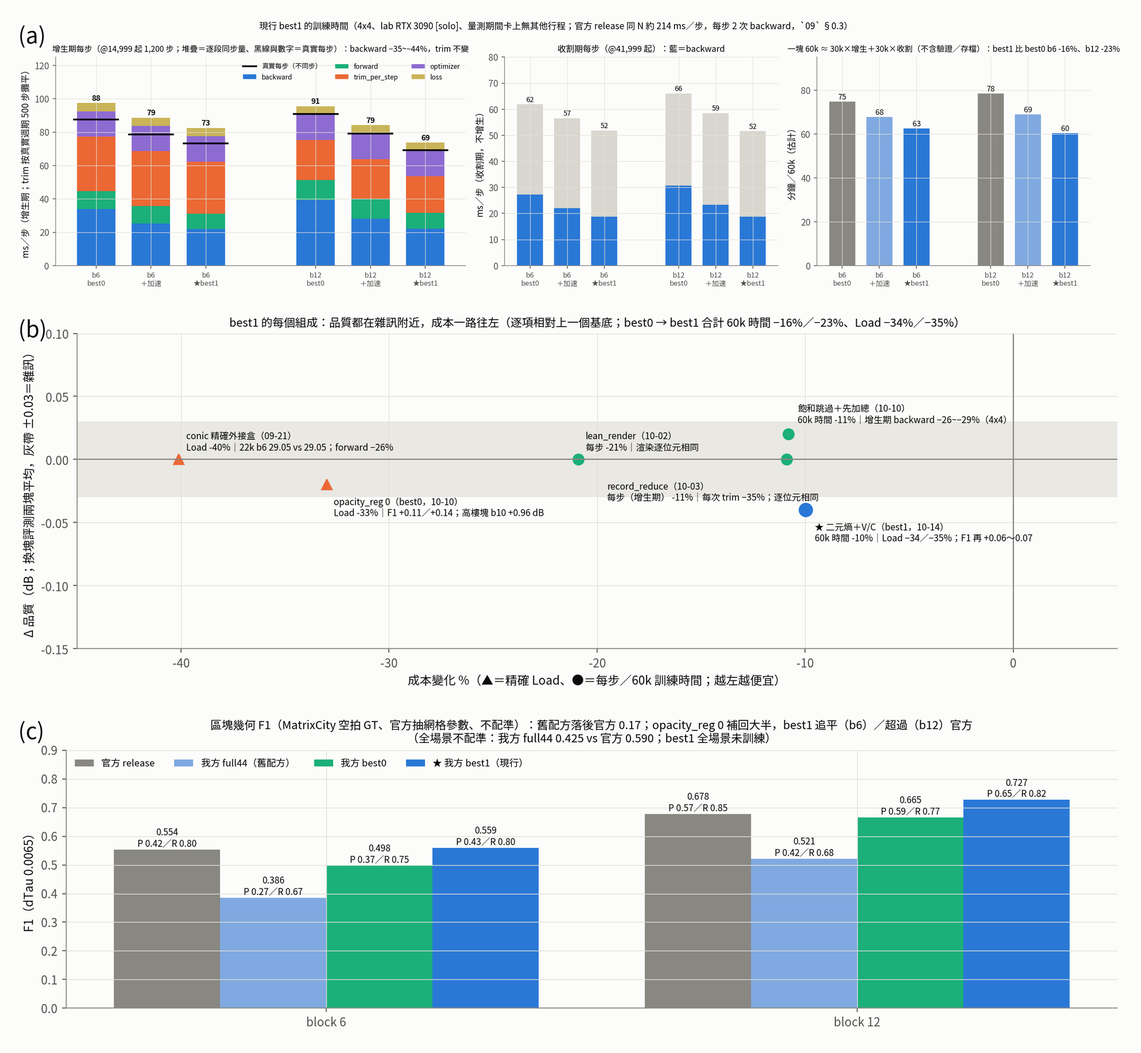
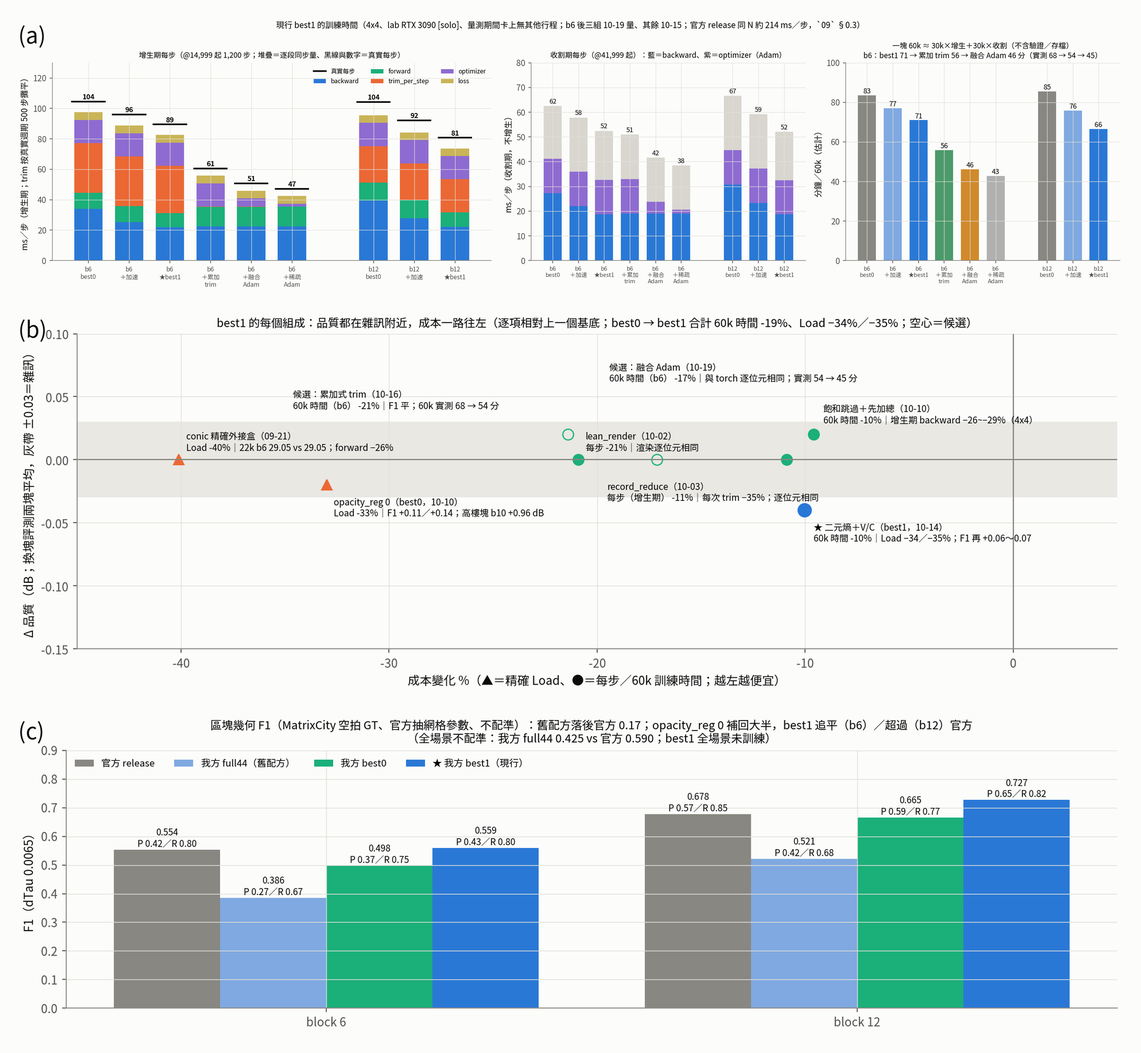
紀錄：融合／稀疏 Adam 結果＋時間換算修正（15 §2／§2.1／§4、研究總覽 §0／§2／§9、已關閉的線 C、方法論 §0 共用卡、手冊 §3／§4-5／§11-4、README；圖 15 重生）
- 融合 Adam：3090 上與 torch 逐位元相同；b6 60k 54 -> 45 分；換塊 +0.02、F1 0.561 vs 0.561 => 採用，全因子消融跑完後換成預設
- 稀疏 Adam：換塊 +0.17／+0.13 但 F1 −0.053／−0.063、60k 47／50 分 => 不採用（已關閉的線 C；重開：只對 SH 稀疏）
- 15 §2 用修正後的換算重寫（best1 b6 增生期 89.5 ms、60k 估計 71.0 分；實測 68.0）
- 10-20 lab 共用卡事故（容器外行程 22 GB，燒掉 10 格）與 runner 修正

Claude-Session: https://claude.ai/code/session_01ASvjmyPMC4F37W41o8s8Aq

diff --git a/tools/plot_analysis.py b/tools/plot_analysis.py
@@ -1076,45 +1076,57 @@ def _time_logs():
     sys.path.insert(0, os.path.join(ROOT, "tools"))
     from parse_best1_time import parse
     base = os.path.join(DST, "data", "best1_time")
-    return {6: parse(os.path.join(base, "best1_time_b6_1015_0655.log")), 12: parse(os.path.join(base, "best1_time_b12_1015_0602.log"))}
+    T = {6: parse(os.path.join(base, "best1_time_b6_1015_0655.log")), 12: parse(os.path.join(base, "best1_time_b12_1015_0602.log"))}
+    # ★ 10-19：累加式 trim／＋融合 Adam／＋稀疏 Adam（b6，同 ckpt 同工具；累加停止條件修正後的那次）
+    T[6].update(parse(os.path.join(base, "best1_time_b6_1019_1559.log")))
+    return T
 
 
 def n15_time(d):
-    """best1 的時間（lab 3090 [solo]、真實訓練迴圈，`task_best1_time.sh loop`）：best0 → ＋加速旗標 → best1，增生期逐段＋收割期，60k 估計。"""
+    """best1 的時間（lab 3090 [solo]、真實訓練迴圈，`task_best1_time.sh loop`）：best0 → ＋加速旗標 → best1 → ＋累加式 trim → ＋融合／稀疏 Adam。
+    ⚠ 10-19 修正換算：真實步時間本來就不含 trim => 每步 = 真實步 ＋ 第 12 段 ＋ trim 單次/500（舊版少算約 16 ms）。"""
     T = _time_logs()
-    arms = [("best0", "best0"), ("best0fast", "＋加速"), ("best1", "★best1")]
+    groups = [(6, [("best0", "best0"), ("best0fast", "＋加速"), ("best1", "★best1"), ("best1run", "＋累加\ntrim"),
+                   ("best1runfa", "＋融合\nAdam"), ("best1runsa", "＋稀疏\nAdam")]),
+              (12, [("best0", "best0"), ("best0fast", "＋加速"), ("best1", "★best1")])]
     segs = [("backward", C1), ("forward", C3), ("trim_per_step", C2), ("optimizer", C4), ("loss", "#c9b458")]
-    fig, axs = plt.subplots(1, 3, figsize=(17, 4.4), gridspec_kw={"width_ratios": [1.5, 1, 1]})
-    ax = axs[0]; xs, lbl = [], []
-    for bi, b in enumerate((6, 12)):
-        for ai, (a, nm) in enumerate(arms):
-            g = T[b][(a, "grow")]; x = bi * 4 + ai; xs.append(x); lbl.append(f"b{b}\n{nm}")
-            bot = 0
-            for k, c in segs:
-                v = g.get(k, 0.0); ax.bar(x, v, 0.7, bottom=bot, color=c, label=k if (bi == 0 and ai == 0) else None); bot += v
-            ax.plot([x - 0.4, x + 0.4], [g["step"]] * 2, color="k", lw=2, label="真實每步（不同步）" if (bi == 0 and ai == 0) else None)
-            ax.text(x, bot + 1.5, f"{g['step']:.0f}", ha="center", fontsize=8.5, fontweight="bold")
-    ax.set_xticks(xs); ax.set_xticklabels(lbl, fontsize=8); ax.set_ylabel("ms／步（增生期；trim 按真實週期 500 步攤平）")
-    ax.legend(fontsize=7.5, ncol=3, loc="upper right"); ax.set_ylim(0, 125)
-    ax.set_title("增生期每步（@14,999 起 1,200 步；堆疊＝逐段同步量、黑線與數字＝真實每步）：backward −35~−44%，trim 不變", fontsize=9)
+    cols = {"best0": MUTED, "best0fast": "#7fa9e0", "best1": C1, "best1run": "#4c9a6a", "best1runfa": "#d08a2c", "best1runsa": "#b0b0b0"}
+    pos = []
+    x = 0
+    for b, arms in groups:
+        for a, nm in arms:
+            pos.append((x, b, a, nm)); x += 1
+        x += 1
+    fig, axs = plt.subplots(1, 3, figsize=(19, 4.8), gridspec_kw={"width_ratios": [1.6, 1, 1]})
+    ax = axs[0]
+    for k, (x, b, a, nm) in enumerate(pos):
+        g = T[b][(a, "grow")]; bot = 0
+        for sk, c in segs:
+            v = g.get(sk, 0.0); ax.bar(x, v, 0.7, bottom=bot, color=c, label=sk if k == 0 else None); bot += v
+        ax.plot([x - 0.4, x + 0.4], [g["step"]] * 2, color="k", lw=2, label="真實每步" if k == 0 else None)
+        ax.text(x, max(bot, g["step"]) + 1.5, f"{g['step']:.0f}", ha="center", fontsize=8.5, fontweight="bold")
+    ax.set_xticks([p[0] for p in pos]); ax.set_xticklabels([f"b{p[1]}\n{p[3]}" for p in pos], fontsize=7.5)
+    ax.set_ylabel("ms／步（增生期；trim 按真實週期 500 步攤平）"); ax.legend(fontsize=7.5, ncol=3, loc="upper right"); ax.set_ylim(0, 130)
+    ax.set_title("增生期每步（@14,999 起 1,200 步；堆疊＝逐段同步量、黑線與數字＝真實每步）", fontsize=9)
     ax = axs[1]
-    for bi, b in enumerate((6, 12)):
-        for ai, (a, nm) in enumerate(arms):
-            h = T[b][(a, "harvest")]; x = bi * 4 + ai
-            ax.bar(x, h["backward"], 0.7, color=C1); ax.bar(x, h["step"] - h["backward"], 0.7, bottom=h["backward"], color="#d8d6cf")
-            ax.text(x, h["step"] + 1, f"{h['step']:.0f}", ha="center", fontsize=8)
-    ax.set_xticks(xs); ax.set_xticklabels(lbl, fontsize=8); ax.set_ylim(0, 80); ax.set_ylabel("ms／步（收割期，不增生）")
-    ax.set_title("收割期每步（@41,999 起）：藍＝backward", fontsize=9.5)
+    for x, b, a, nm in pos:
+        h = T[b][(a, "harvest")]
+        ax.bar(x, h["backward"], 0.7, color=C1); ax.bar(x, h.get("optimizer", 0), 0.7, bottom=h["backward"], color=C4)
+        ax.bar(x, h["step"] - h["backward"] - h.get("optimizer", 0), 0.7, bottom=h["backward"] + h.get("optimizer", 0), color="#d8d6cf")
+        ax.text(x, h["step"] + 1, f"{h['step']:.0f}", ha="center", fontsize=8)
+    ax.set_xticks([p[0] for p in pos]); ax.set_xticklabels([f"b{p[1]}\n{p[3]}" for p in pos], fontsize=7)
+    ax.set_ylim(0, 80); ax.set_ylabel("ms／步（收割期，不增生）")
+    ax.set_title("收割期每步（@41,999 起）：藍＝backward、紫＝optimizer（Adam）", fontsize=9)
     ax = axs[2]
-    for bi, b in enumerate((6, 12)):
-        for ai, (a, nm) in enumerate(arms):
-            g, h = T[b][(a, "grow")], T[b][(a, "harvest")]; m = 30000 * (g["step"] + h["step"]) / 1000 / 60; x = bi * 4 + ai
-            ax.bar(x, m, 0.7, color=[MUTED, "#7fa9e0", C1][ai]); ax.text(x, m + 1, f"{m:.0f}", ha="center", fontsize=8.5)
-    ax.set_xticks(xs); ax.set_xticklabels(lbl, fontsize=8); ax.set_ylabel("分鐘／60k（估計）"); ax.set_ylim(0, 95)
-    b6 = [30000 * (T[6][(a, 'grow')]['step'] + T[6][(a, 'harvest')]['step']) / 6e4 for a, _ in arms]
-    b12 = [30000 * (T[12][(a, 'grow')]['step'] + T[12][(a, 'harvest')]['step']) / 6e4 for a, _ in arms]
-    ax.set_title(f"一塊 60k ≈ 30k×增生＋30k×收割（不含驗證／存檔）：best1 比 best0 b6 {100*(b6[2]/b6[0]-1):+.0f}%、b12 {100*(b12[2]/b12[0]-1):+.0f}%", fontsize=9)
-    fig.suptitle("現行 best1 的訓練時間（4x4、lab RTX 3090 [solo]、量測期間卡上無其他行程；官方 release 同 N 約 214 ms／步，每步 2 次 backward，`09` §0.3）", fontsize=10)
+    for x, b, a, nm in pos:
+        g, h = T[b][(a, "grow")], T[b][(a, "harvest")]; m = 30000 * (g["step"] + h["step"]) / 1000 / 60
+        ax.bar(x, m, 0.7, color=cols[a]); ax.text(x, m + 1, f"{m:.0f}", ha="center", fontsize=8.5)
+    ax.set_xticks([p[0] for p in pos]); ax.set_xticklabels([f"b{p[1]}\n{p[3]}" for p in pos], fontsize=7)
+    ax.set_ylabel("分鐘／60k（估計）"); ax.set_ylim(0, 100)
+    e = lambda b, a: 30000 * (T[b][(a, 'grow')]['step'] + T[b][(a, 'harvest')]['step']) / 6e4
+    ax.set_title(f"一塊 60k ≈ 30k×增生＋30k×收割（不含驗證／存檔）\nb6：best1 {e(6,'best1'):.0f} → 累加 trim {e(6,'best1run'):.0f} → 融合 Adam {e(6,'best1runfa'):.0f} 分"
+                 f"（實測 68 → 54 → 45）", fontsize=9)
+    fig.suptitle("現行 best1 的訓練時間（4x4、lab RTX 3090 [solo]、量測期間卡上無其他行程；b6 後三組 10-19 量、其餘 10-15；官方 release 同 N 約 214 ms／步，`09` §0.3）", fontsize=10)
     save(fig, d, "n15_time.png")
 
 
@@ -1122,23 +1134,29 @@ def n15_tradeoff(d):
     """採用中的機制：品質變化 vs 成本變化（品質＝換塊評測本塊幾何區域 PSNR 兩塊平均，或逐位元相同＝0）。"""
     T = _time_logs()
     tm = lambda a, b: np.mean([30000 * (T[k][(b, 'grow')]['step'] + T[k][(b, 'harvest')]['step']) / (30000 * (T[k][(a, 'grow')]['step'] + T[k][(a, 'harvest')]['step'])) - 1 for k in (6, 12)]) * 100
+    tm6 = lambda a, b: ((T[6][(b, 'grow')]['step'] + T[6][(b, 'harvest')]['step']) / (T[6][(a, 'grow')]['step'] + T[6][(a, 'harvest')]['step']) - 1) * 100
     P = [("conic 精確外接盒（09-21）", 0.00, -40.1, "Load", "22k b6 29.05 vs 29.05；forward −26%", (6, 8)),
          ("lean_render（10-02）", 0.00, -20.9, "每步", "渲染逐位元相同", (6, 8)),
          ("record_reduce（10-03）", 0.00, -10.9, "每步（增生期）", "每次 trim −35%；逐位元相同", (-150, -34)),
          ("飽和跳過＋先加總（10-10）", 0.02, tm("best0", "best0fast"), "60k 時間", "增生期 backward −26~−29%（4x4）", (8, 10)),
          ("opacity_reg 0（best0，10-10）", -0.02, -33.0, "Load", "F1 +0.11／+0.14；高樓塊 b10 +0.96 dB", (6, -26)),
-         ("★ 二元熵＋V/C（best1，10-14）", -0.04, tm("best0fast", "best1"), "60k 時間", "Load −34／−35%；F1 再 +0.06～0.07", (8, -26))]
+         ("★ 二元熵＋V/C（best1，10-14）", -0.04, tm("best0fast", "best1"), "60k 時間", "Load −34／−35%；F1 再 +0.06～0.07", (8, -26)),
+         # ★ 10-19 候選（下一個基底；時間只有 b6 的同工具量測）
+         ("候選：累加式 trim（10-16）", 0.02, tm6("best1", "best1run"), "60k 時間（b6）", "F1 平；60k 實測 68 → 54 分", (-230, 22)),
+         ("候選：融合 Adam（10-19）", 0.00, tm6("best1run", "best1runfa"), "60k 時間（b6）", "與 torch 逐位元相同；實測 54 → 45 分", (-40, 66))]
     fig, ax = plt.subplots(figsize=(13, 4.6))
     ax.axhspan(-0.03, 0.03, color="#e1e0d9", alpha=0.7, lw=0)
     for nm, dq, dc, unit, note, off in P:
         mk = "^" if unit == "Load" else "o"; c = C1 if nm.startswith("★") else (C2 if unit == "Load" else C3)
-        ax.plot(dc, dq, marker=mk, color=c, ms=11 if nm.startswith("★") else 9, lw=0)
+        cand = nm.startswith("候選")
+        ax.plot(dc, dq, marker=mk, color=c, ms=11 if nm.startswith("★") else 9, lw=0 if not cand else 1.5,
+                markerfacecolor="none" if cand else c)
         ax.annotate(f"{nm}\n{unit} {dc:+.0f}%｜{note}", (dc, dq), xytext=off, textcoords="offset points", fontsize=7.5)
     ax.axvline(0, color=MUTED, lw=1); ax.axhline(0, color=MUTED, lw=1)
     ax.set_xlim(-45, 5); ax.set_ylim(-0.15, 0.1)
     ax.set_xlabel("成本變化 %（▲＝精確 Load、●＝每步／60k 訓練時間；越左越便宜）")
     ax.set_ylabel("Δ 品質（dB；換塊評測兩塊平均，灰帶 ±0.03＝雜訊）")
-    ax.set_title("best1 的每個組成：品質都在雜訊附近，成本一路往左（逐項相對上一個基底；best0 → best1 合計 60k 時間 −16%／−23%、Load −34%／−35%）", fontsize=9.5)
+    ax.set_title(f"best1 的每個組成：品質都在雜訊附近，成本一路往左（逐項相對上一個基底；best0 → best1 合計 60k 時間 {tm('best0','best1'):.0f}%、Load −34%／−35%；空心＝候選）", fontsize=9.5)
     save(fig, d, "n15_tradeoff.png")
 
 

diff --git a/紀錄/實驗分析/15_現行最佳best1_組成與取捨.md b/紀錄/實驗分析/15_現行最佳best1_組成與取捨.md
@@ -1,7 +1,7 @@
 # 15 現行最佳 best1：組成、時間與取捨（報告用）
 
-> **圖**：`15_現行最佳best1_組成與取捨.png`（同名，3 個面板）　｜　**年代**：新年代（4x4、60k）　｜　**日期**：2026-10-15
-> **資料**：時間＝`scripts/lab/task_best1_time.sh loop`（lab RTX 3090 [solo]，量測期間卡上無其他行程；log 在 `data/best1_time/`，解析 `tools/parse_best1_time.py`）；
+> **圖**：`15_現行最佳best1_組成與取捨.png`（同名，3 個面板）　｜　**年代**：新年代（4x4、60k）　｜　**日期**：2026-10-15（10-20 補：時間換算修正、累加式 trim、融合／稀疏 Adam）
+> **資料**：時間＝`scripts/lab/task_best1_time.sh loop`（lab RTX 3090 [solo]，量測期間卡上無其他行程；log 在 `data/best1_time/`（10-15、10-19），解析 `tools/parse_best1_time.py`）；Adam＝lab `logs/adam_check_b6_1019_1557.log`、`logs/swap_b{6,12}_1019_18*.log`、`outputs/lab/geom_f1/blocks/arms_b{6,12}.log`；
 > 品質＝換塊評測（`13` §2）；F1＝`tools/block_f1.py`（`09` §6.1）
 > **重現**：`python tools/plot_analysis.py`（a=n15_time、b=n15_tradeoff、c=n09_blockf1）
 
@@ -9,8 +9,8 @@
 
 | 面板 | 內容 | 對應本文 |
 |---|---|---|
-| (a) | 訓練時間：best0 → ＋兩個 backward 加速旗標 → best1，增生期逐段、收割期、60k 估計（b6／b12） | §2 |
-| (b) | best1 的每個組成：品質變化 vs 成本變化（逐項相對上一個基底） | §1 |
+| (a) | 訓練時間：best0 → ＋兩個 backward 加速旗標 → best1 → ＋累加式 trim → ＋融合／稀疏 Adam（後三組只有 b6），增生期逐段、收割期、60k 估計 | §2、§2.1 |
+| (b) | best1 的每個組成：品質變化 vs 成本變化（逐項相對上一個基底；空心＝下一個基底的候選） | §1 |
 | (c) | 區塊幾何 F1：官方 release vs 我方 full44／best0／best1 | §3、`09` §6.1 |
 |（無圖）| 出處與貢獻歸屬（🟩 原創／🟨 借用並改造／⬜ 直接沿用） | §4 |
 
@@ -18,7 +18,8 @@
 
 - **best1 = best0（dup init＋opacity_reg 0）＋ opacity 二元熵正則 0.002 ＋ trim 判準 V/C ＋ backward 飽和跳過＋block 內先加總**（10-14 採用）。
 - **品質**：換塊評測相對 best0 b6 −0.09／b12 +0.01 dB（雜訊 ±0.03）；**幾何 F1 b6 0.559／b12 0.727**，追平／超過官方 release（0.554／0.678）。
-- **成本**：精確 Load −34%／−35%；**一塊 60k 約 62.5／60.3 分鐘**（best0 74.7／78.4，**−16%／−23%**；b6 完整重跑實測 68.0 分鐘，含驗證存檔）；峰值 3.92／3.92 GB。
+- **成本**：精確 Load −34%／−35%；**一塊 60k 估計 71.0／66.4 分鐘**（best0 83.5／85.4，**−15%／−22%**；b6 完整重跑實測 68.0 分鐘，含驗證存檔；10-19 修正換算，§2）；峰值 3.92／3.92 GB。
+- **再加累加式 trim＋融合 Adam（10-19，候選）：b6 60k 實測 45 分（−34%）**，品質與 F1 平手（§2、§2.1）。
 - 每個組成的品質變化都落在雜訊附近，而成本一路往左（面板 b）；從 conic 外接盒起算，訓練期的每項加速都是「渲染逐位元相同」或「換塊平手」。
 
 ## §1 組成與取捨（面板 b；逐項相對上一個基底）
@@ -38,17 +39,50 @@
 
 增生期＝@14,999 起（densify 與每 500 步 trim 照常；trim 按真實週期 500 步攤平）；收割期＝@41,999 起、densify_until 0。
 一塊 60k ≈ 30,000 x 增生期 ＋ 30,000 x 收割期（不含驗證與存檔）。
+⚠ **10-19 修正換算**：profiler 的「真實步時間」本來就不含 trim 與第 12 段（下一步的起點在 trim 之後），
+舊版 `tools/parse_best1_time.py` 又扣了一次 => **增生期少算約 16 ms／步、60k 少算約 8 分鐘**（10-15 版寫 best1 b6 73.3 ms、62.5 分）。
+現在每步＝真實步時間 ＋ 第 12 段 ＋ trim 單次 / 500；下表全部用修正後的算法。
 
-| 配方 | b6 增生期 ms／步（backward／forward／trim／optimizer） | b6 收割期 | b6 60k | b12 增生期 | b12 收割期 | b12 60k |
-|---|---|---|---|---|---|---|
-| best0（lean＋record_reduce） | 87.6（34.0／10.6／32.7／15.2） | 61.9 | 74.7 分 | 90.8（39.3／11.9／24.1／15.3） | 66.0 | 78.4 分 |
-| ＋飽和跳過＋先加總 | 78.8（25.3／10.5／32.8／15.1） | 56.6 | 67.7 分 | 79.2（27.9／11.8／24.2／15.3） | 58.6 | 68.9 分 |
-| **★ best1** | **73.3**（22.0／9.3／31.0／15.3） | **51.8** | **62.5 分** | **69.1**（22.2／9.5／21.9／15.1） | **51.6** | **60.3 分** |
+| 配方 | b6 增生期 ms／步（backward／forward／trim／Adam） | b6 收割期 | b6 60k 估計 | b6 60k 實測（台帳 START→DONE） | b12 增生期 | b12 收割期 | b12 60k 估計 |
+|---|---|---|---|---|---|---|---|
+| best0（lean＋record_reduce） | 104.5（34.0／10.6／32.7／15.2） | 62.5 | 83.5 分 | — | 104.3 | 66.6 | 85.4 分 |
+| ＋飽和跳過＋先加總 | 96.1（25.3／10.5／32.8／15.1） | 57.9 | 77.0 分 | 83.7 分（10-10 跑次） | 92.2 | 59.2 | 75.7 分 |
+| **★ best1**（10-15 量） | **89.5**（22.0／9.3／31.0／15.3） | **52.5** | **71.0 分** | **68.0 分**（含快取、驗證、存檔） | **80.7** | **52.1** | **66.4 分** |
+| best1（10-19 重量） | 87.5（22.1／9.3／31.0／15.3） | 50.7 | 69.1 分 | | | | |
+| ＋累加式 trim（`best1run`） | 60.6（22.4／13.0／0.1／15.3） | 50.9 | 55.8 分 | 54 分（b12 55） | | | |
+| **＋融合 Adam（`best1runfa`）** | **50.8**（22.4／13.0／0.1／**5.4**） | **41.7** | **46.2 分** | **45 分** | | | |
+| ＋稀疏 Adam（`best1runsa`；不採用，§2.1） | 47.2（22.5／13.1／0.1／1.8） | 38.5 | 42.8 分 | 47 分（b12 50） | | | |
 
-- b6 量了兩次（第一次開頭 3 分鐘與官方渲染重疊）：74.7 vs 75.0、67.7 vs 67.8、62.5 vs 62.6 分 => 重疊沒有影響，表中用第二次。
-- trim（增生期每步約 22~33 ms）幾乎不受 best1 影響：它的成本與相機數成正比（b6 775 台、b12 516 台），下一個加速目標。
+- 10-15 那組 b6 量了兩次（第一次開頭 3 分鐘與官方渲染重疊）：結果相同 => 重疊沒有影響，表中用第二次。10-19 兩組在同一天、同 ckpt、同工具。
+- 估計 vs 實測：best1 71.0 vs 68.0、累加式 trim 55.8 vs 54、融合 Adam 46.2 vs 45 => 1,200 步窗口的估計偏高 2~4%（推測是增生期中段的 trim 單次成本高於整段平均，未驗證）。例外：10-10 的 best0fast 跑次 83.7 vs 估計 77.0，那次與這套計時不同天、不同 ckpt，不拿來校正。
+- **現行最快（候選，等全因子消融跑完再換預設）＝ best1＋累加式 trim＋融合 Adam：b6 60k 實測 45 分，比 best1 的 68 分快 34%**；峰值 3.94 GB 不變（峰值在 backward）。
+- 剩下的時間：backward 44%、forward 26%（含累加 V/C 3.7 ms）、loss 10%、Adam 11%、其他（dataloader、log、hook）約 9%。
 - 官方 release 同 N 約 214 ms／步（每步 2 次 backward、forward 帶幾何通道，`09` §0.3）。
-- **實測（10-15）**：best1 b6 完整 60k 獨佔重跑（`task_best1_time.sh full 6`，跑次 `g44_best1time`，量測期間 136 次取樣卡上只有自己）＝**4,080 秒（68.0 分鐘）**，含資料快取、驗證、存 ckpt；val 29.573（10-14 那次 29.578，可重現）。對照 10-10 的 best0fast b6（4x4、同卡無外部佔用）83.7 分鐘 => **−19%**；比估計的 62.5 分鐘多約 5.5 分鐘＝驗證與存檔等迴圈外開銷。
+- 計時工具的收割期段：10-19 前累加式 trim 在 `densify_until 0` 下不會停止累加（多 3.5 ms）；已修成「step > until 就停」（真實 60k 訓練原本就在 30k 停，不受影響）。
+
+### §2.1 融合／稀疏 Adam（10-19；`internal/optimizers.py` FusedAdam、光柵器 `rasterize_points.cu` FusedAdamCUDA）
+**為什麼**：Adam 佔每步 26%（b6 N 2.34M：增生期 15.3、收割期 13.9 ms）；torch 2.0.1 的 foreach Adam 對全部參數掃約 8 遍
+（mul／add／mul／addcmul／sqrt／div／add／addcdiv 各一個 kernel＋暫存張量），內建 `fused=True` 在 2.0.1 反而慢 2.3~3.2 倍（已關閉的線）。
+**做法**：光柵器 extension 裡一個 kernel 一遍（讀 p／g／m／v、寫 p／m／v），算式與運算順序照 torch 2.0.1（含 bias correction、逐張量 step 計數）；
+繼承 `torch.optim.Adam` => state 格式相同，MCMC 的增生／剪枝／搬家與 ckpt 照用。稀疏＝本步不可見（radii=0）的列整列不動。
+
+| 量測（b6） | torch foreach | 融合 | 稀疏 |
+|---|---|---|---|
+| 逐位元比對 torch（3090，真實梯度 50 步） | — | **參數／m／v 100% 相同** | 可見列＝融合、不可見列不動 |
+| optimizer.step（50 步中位） | 13.5 ms | 4.6 ms | 0.9 ms |
+| 真實迴圈 增生／收割 每步 | 60.6／50.9 | 50.8／41.7 | 47.2／38.5 |
+| 60k 實測 b6（b12） | 54 分（55） | **45 分** | 47 分（50） |
+| 換塊評測 Δ（相對基準合併模型；b6／b12） | −0.056／−0.060 | −0.037／— | **+0.109／+0.065** |
+| LPIPS b6／b12 | .1173／.1168 | .1173／— | .1176／.1166 |
+| 區塊 F1 b6／b12 | 0.561／0.723 | 0.561／— | **0.508／0.660** |
+| 盒內顆數 b6／b12 | 46.6 萬／64.2 萬 | 46.5 萬 | 51.4 萬／66.1 萬 |
+
+- **融合 Adam＝純加速**：每一項都在雜訊內（換塊 +0.02、F1 −0.0007），60k −17%。
+- **稀疏 Adam 是取捨，不採用為預設**：換塊 PSNR +0.17／+0.13（相對 best1run），但**幾何 F1 −0.053／−0.063**（precision 0.430 → 0.385、0.652 → 0.584），
+  與 SH1、短步數同一形狀（PSNR 升、幾何降）；而且 60k 實測反而比融合版慢（47 vs 45 分；動態改變後每步渲染變重）。
+  推測原因（未驗證）：opacity 二元熵與 scale 正則每步只作用在約 1/4 的顆粒（訓練迴圈裡可見 25~27%）=> 正則變弱。
+  還能試：只對 SH（佔參數 78%、只有光度梯度）做稀疏，幾何參數（位置、scale、opacity、旋轉）照常稠密 => `new_archived/已關閉的線.md` C。
+- 可見比例：離線 775 視角量到每視角 9~12%（`check_lean_render.py visible`），訓練迴圈裡 25~27%（訓練相機分布不同；以實際觸發訊息為準）。
 
 ## §3 幾何 F1（面板 c）
 見 `09` §6.1：不配準、換塊、只用本塊相機、裁到 crop ∩ 分區盒；兩種量法（全場景網格裁到本塊 vs 換塊）對 full44 一致（0.381 vs 0.386、0.521 vs 0.521）。
@@ -84,6 +118,8 @@
 | GT 逐幀曝光不一致（研究總覽 §3.4）→ 逐影像曝光補償 `exposure_comp`（10-15 實作；使用者 10-16 不採用） | 🟩＋🟨 | 曝光不一致的診斷＝我方（🟩）；補償本身是已知做法（逐影像外觀／曝光，NeRF-W 類，🟨）：我方只學每張一個 log 增益、每塊平均固定 0、新視角用「增益 ~ 渲染亮度」的全域曲線預測（依據是量到的 log-log 斜率約 −0.5）| ⚠ 補償文獻未讀原文 |
 
 | dist 版 lean（10-19；`lean_dist`、forward MODE 5、backward `renderCUDA_opt<DST>`） | 🟩（工程） | 把 2DGS 原 kernel 的 distortion 前向與梯度算式抽成 lean 路徑的一個選項，與飽和跳過／先加總相容；渲染與 distortion 圖逐位元相同、DST 單獨梯度在噪音底內（`tools/check_lean_render.py --dist`）；屬實作，與 lean 同類 | 📄（本機驗證，commit 77c5120） |
+| 融合 Adam（10-19；`FusedAdam`、光柵器 `FusedAdamCUDA`） | 🟩（工程） | 只改 Adam 的實作（一個 kernel 一遍），算式與運算順序照 torch 2.0.1 => 與 torch 逐位元相同；不改演算法，屬實作 | 本機＋lab 3090 逐位元比對（`tools/check_lean_render.py adamcheck`） |
+| 稀疏 Adam（10-19；`FusedAdam(sparse=true)`；不採用，§2.1） | 🟨 | 只更新本步可見的顆粒＝Taming 3DGS／gsplat `SelectiveAdam`；我方保留 bias correction 與 torch 的 step 計數（gsplat 的 kernel 沒有） | gsplat 原始碼 🔍（本機 1.4.0）；Taming ⚠ 未重讀該節 |
 | 塊外遮罩訓練（`block_mask_dir`＋`tools/block_mask44.py`，10-17 實作；20k b6／b12：F1 +0.07／+0.05、LPIPS 較好，未定案） | 🟨（兩點候選 🟩） | **前人**：逐塊／逐子模型只用屬於自己的像素訓練＝已知做法——Mega-NeRF（CVPR 2022，像素依射線穿過的格子分配，後以粗不透明度網格剪掉被遮擋者）、Sun et al. CGF 2025（DOI 10.1111/cgf.70265，深度比較遮罩：只留主要由本塊貢獻的像素、其餘排除於訓練）、HUG（ICCV 2025，本塊 SfM 點投影的可見區域遮罩）；隨機背景學透明度＝NeRF／3DGS 常見技巧。**我方（未查到前例）**：① 塊外且射線之後不再進入本塊的像素**要求透明**（目標＝本步隨機背景色＝塊外生東西就扣分；前述三篇就摘要／正文所見只是排除）；② 三分類：射線幾何分出「第一表面在塊外但後方有本塊內容」者不計分也不懲罰，避免刪掉被鄰塊遮住的本塊內容；③ 遮罩來源＝單目深度（Depth Anything）前處理＋SfM 觀測點驗證（危險誤判 0.09~0.91%）。問題陳述佐證：Windisch et al.（SIGGRAPH 2026）指出分塊訓練的邊界瑕疵 | Mega-NeRF 🔍（正文＋補充材料摘要）；HUG 🔍（arXiv html）；**CGF 2025 ⚠ 全文取不到（出版商 403，使用者 10-19：算了）=> ①② 不可宣稱原創，只能寫「未查到前例」** |
 ⚠ `現行方案與公式.md` 的出處表（§0、§6）是 10-03 前的舊方案（DAR、條帶 K、SB 顏色、depth-init），現行 best1 的歸屬以本節為準。
 

diff --git a/紀錄/研究總覽.md b/紀錄/研究總覽.md
@@ -7,7 +7,7 @@
 > ⚠ 程式碼註解裡的「研究總覽 §11.x／§13.x／§16.x」指的是**舊版 v1**（`new_archived/研究總覽_v1_至2026-09-13.md`）。
 > 本檔只收 2026-09-13（影像↔姿態修正）之後的結果。數學用 ASCII；回覆一律繁體中文。
 
-## §0 現況一頁（2026-10-19）
+## §0 現況一頁（2026-10-20）
 
 **方向（使用者 10-16）**：近期不管本機 6GB，主軸是**輕量＋快**；與官方比只用原設定（不替雙方加補償）。
 
@@ -17,6 +17,7 @@ best1 = live config（conic 精確外接盒）＋ task_cmp 共同旗標（cap 2.
         uint8 快取＋不載未用深度、lean＋record_reduce、只存最終 ckpt）＋ dup init（K 依塊 2~4）
         ＋ opacity_reg 0 ＋ opacity 二元熵 0.002 ＋ trim 判準 V/C ＋ backward 飽和跳過＋block 內先加總
 換塊評測（相對 best0）   b6 −0.09／b12 +0.01 dB；精確 Load −34%／−35%；峰值 3.92 GB；每塊 68 分（b6 實測）
+＋累加式 trim＋融合 Adam  每塊 45 分（b6 實測，−34%）、換塊／F1／LPIPS 平手 => 全因子消融跑完後換成預設（`15` §2）
 區塊幾何 F1             0.559／0.727 vs 官方 0.554／0.678
 馬路靠地底面元（暗柏油） 37.7%／52.4% vs 官方 16.3%／38.5%（`18`）
 ```
@@ -24,7 +25,9 @@ best1 = live config（conic 精確外接盒）＋ task_cmp 共同旗標（cap 2.
 ### 下一個基底的候選元件（10-16～10-19，b6／b12；換塊＝本塊幾何區域 PSNR 相對 best1，雜訊 ±0.03）
 | 元件 | 品質 | 成本 | 狀態 | 文件 |
 |---|---|---|---|---|
-| 累加式 trim（訓練中累加 V/C，不掃相機） | −0.01／+0.05、F1 平 | 60k −21% | 候選（要 lean => 不能和 dist 共用） | `15` §4 |
+| 累加式 trim（訓練中累加 V/C，不掃相機） | −0.01／+0.05、F1 平 | 60k 68 → 54 分 | 候選（要 lean => 不能和 dist 共用） | `15` §2、§4 |
+| **融合 Adam**（一個 kernel；與 torch 逐位元相同） | 換塊 +0.02、F1 0.561 vs 0.561（b6） | 60k 54 → 45 分（Adam 13.5 → 4.6 ms） | **採用**；消融跑完後換成預設（避免消融中途換） | `15` §2.1 |
+| 稀疏 Adam（只更新可見顆粒） | +0.17／+0.13，但 **F1 −0.05／−0.06** | 60k 47／50 分（反而比融合慢） | 不採用（已關閉的線 C） | `15` §2.1 |
 | **塊外遮罩**（三分類＋隨機背景＋裁盒初始化） | 20k：PSNR −0.11／+0.02、LPIPS 較好、**F1 +0.07／+0.05** | cap 1.2M 版：N 減半、時間 −42%、VRAM 減半 | 消融中 | `17` |
 | **深度失真正則 dist100** | 60k：PSNR 0.00／−0.06、F1 0.585／0.757、馬路地底貢獻 4.6 -> 1.6%（官方級） | 舊量 +22% 是關 lean 的；dist 版 lean 後待量 | 消融中 | `18` |
 | 縮短步數 | 15k：PSNR +0.32／+0.35，但 LPIPS 差、F1 低於官方、目視不合格 | 15k 15 分 | 15k 已關；30k～50k 在消融 | `16` |
@@ -75,14 +78,14 @@ max Q(theta_S)   s.t.   (1/K) * sum_{i in S} c_i <= B(hardware)
 
 | 主題 | 結論 | 文件 |
 |---|---|---|
-| 時間花在哪 | 運算不是搬運（迴圈外約 5%）；best1 增生期 backward 約 30%、trim 約 30%、optimizer 約 21%、forward 約 13% | `01`、`15` |
-| 現行每步 | best1 增生期約 69~73 ms、收割期約 52 ms；官方同 N 約 214 ms（每步 2 次 backward） | `15`、`09` §0.3 |
+| 時間花在哪 | 運算不是搬運（迴圈外約 5%）；best1 增生期 trim 35%、backward 25%、Adam 17%；換累加式 trim＋融合 Adam 後 backward 44%、forward 26%、Adam 11% | `01`、`15` §2 |
+| 現行每步 | best1 增生期 88~90 ms、收割期 51~53 ms（10-19 修正換算：舊版少算約 16 ms）；＋累加式 trim＋融合 Adam 51／42 ms；官方同 N 約 214 ms（每步 2 次 backward） | `15` §2、`09` §0.3 |
 | 時間 vs 步數 | 約 1 分／千步（4x4 單塊，累加式 trim）；dist 臂 10-19 起用 dist 版 lean（backward −32%、渲染與 distortion 逐位元相同），之前的 dist 臂時間是未最佳化的 | `16`、`18` |
 | VRAM | 硬牆不是慢坡；峰值在 backward；常駐 864~928 B/顆 => 由 N 主導；SH1 峰值 2.09 GB、遮罩 cap 1.2M 1.95 GB | `02`、`16`、`17` |
 | 塊內 vs 塊外 | 單塊 60k 只有 19%／27% 在分區盒內，合併時其餘全丟；只留盒內 fwd+bwd −44~−59% | `12` §7、`17` |
 | 儲存 | ckpt 2/3 是 Adam；參數 232 B/顆（SH 高階 78%）；部署只存盒內參數（15k＋SH1 盒內 145／188 MB，`tools/crop_inbox_ckpt.py`） | `03`、`16` |
 | RAM | uint8 影像快取＋不載未用深度：每視角 25.6 → 4.3 MB | `03` |
-| 加速（逐位元相同或平手） | conic 外接盒 Load −40%；lean −20.9%；record_reduce trim −35%；飽和跳過＋先加總 backward −30% | `04`、`10` |
+| 加速（逐位元相同或平手） | conic 外接盒 Load −40%；lean −20.9%；record_reduce trim −35%；飽和跳過＋先加總 backward −30%；累加式 trim 60k −21%；融合 Adam 60k −17% | `04`、`10`、`15` |
 | lab 硬碟 | 1.8 TB；10-17 被中間 ckpt 寫滿 => 預設只存最終 ckpt | `方法論.md` §0 |
 
 政策（使用者 10-04）：lab **不鎖 VRAM、看峰值**；訓練**預設 [solo]**；階段最優解拉回本機（原生 6GB）驗證。
@@ -134,7 +137,7 @@ val ⊂ train                           單塊、整張畫面 => 大半是塊外
   舊結論的處理狀態與舊資料刪除紀錄 => `new_archived/年代與舊結論處理狀態.md`。
 - 論文：46 篇摘要與我方實作交叉索引 => `論文總覽.md`；逐篇「實作 vs 原文」=> `論文核對表.md`；各機制出處 => `實驗分析/15` §4。
 
-## §9 待辦與決策（2026-10-19）
+## §9 待辦與決策（2026-10-20）
 
 **lab 佇列**：`g44s30km10_best1maskdist100` b6（跑中，屬全因子的一格）→ 全因子 36 組 × b6 → b6 評測 → × b12 → b12 評測 → 代表性跑次的 test 圖與全套診斷。
 （init 份數計算在 lab 背景跑，算完才排全因子。）
@@ -144,6 +147,10 @@ val ⊂ train                           單塊、整張畫面 => 大半是塊外
 - cap：5M 是否值得（時間與 VRAM 線性上升，品質是否還在漲）；1M／2.5M 的差。
 - 步數：30k／40k／50k 中，F1 ≥ 官方且 LPIPS 不輸 best1 的最短者。
 - 新基底定案後：test 圖目視 → 全場景（使用者 10-18：細節定案後才跑）。
+
+**lab 共用卡（10-20）**：容器外行程佔卡 22 GB 期間 runner 已改成 [solo] 先等卡空；燒掉的 10 格 dist 臂＋30k 換塊評測已插回佇列最前面。
+
+**基底換成「best1＋累加式 trim＋融合 Adam」**：條件＝全因子消融（b6／b12）跑完（中途換會讓消融的時間欄不可比）。
 
 **已授意、等條件**
 | 項目 | 條件 |

diff --git a/紀錄/完整指令手冊.md b/紀錄/完整指令手冊.md
@@ -194,6 +194,8 @@ CITYGS_DRY=1 CITYGS_GRID=44 CITYGS_LEAN=1 STEPS=60000 CITYGS_FAMILY=g44_ bash sc
 ### 3-2. 這一輪的臂（10-16～10-19；結果 => `實驗分析/16`～`18`）
 ```
 best1run                   累加式 trim（訓練中累加 V/C、不掃相機；要 lean）
+best1runfa                 累加式 trim＋融合 Adam（一個 kernel；與 torch 逐位元相同；60k b6 54 -> 45 分）  <- 10-19，候選預設
+best1runsa                 累加式 trim＋稀疏 Adam（只更新可見的顆粒；PSNR 升、F1 降 => 不採用，`15` §2.1）
 best1mask                  塊外遮罩＋隨機背景＋裁盒初始化＋累加式 trim（要 lab 上的遮罩與裁盒 PLY）
 best1maskdist100           塊外遮罩＋dist100（週期 trim、不開 lean）           <- 全因子消融用
 best1dist100               dist100（週期 trim、不開 lean）
@@ -297,7 +299,7 @@ for f in tools/*.py; do python -c "import ast,sys;m=ast.parse(open(sys.argv[1],e
 每支工具的 docstring 第一段都寫了「為什麼存在／量什麼／怎麼判讀」，寫新工具前先掃這個清單。
 
 
-### 4-5. 這一輪的評測與診斷工具（10-15～10-19）
+### 4-5. 這一輪的評測與診斷工具（10-15～10-20）
 ```bash
 bash scripts/lab/task_full44.sh swap <塊> <跑次...>                       # 換塊評測（full44 合併模型只換第 B 塊；本塊幾何區域 PSNR／LPIPS）
 python tools/swap_block_eval.py --merged_run ../cityGS_origin/outputs/citygsv2_mc_aerial_sh2_trim --block 6 --cand <ckpt...> --names <名...>   # 同塊對官方
@@ -305,6 +307,10 @@ bash scripts/lab/task_block_f1.sh arms <塊> <跑次...>                      # 
 bash scripts/lab/task_inbox_diag.sh <塊> [跑次...|official]               # 塊內外比例、地底、馬路、中空、邊緣、深度誤差（tools/inbox_diag.py）
 bash scripts/lab/task_round_report.sh <塊> <跑次...|official>             # 缺 test 圖就補存＋全套診斷
 python tools/crop_inbox_ckpt.py outputs/lab/<跑次>                         # 單塊 ckpt 裁成塊內（=> <跑次>_inbox；參數與 Adam 一起裁）
+# ★ 10-19 速度量測（[solo]）
+bash scripts/lab/task_lean_check.sh profile_now <塊> <跑次[@步]...>         # 現行最快設定的 kernel 拆解（只算 GPU kernel、階段用 CUDA event）＋每視角可見／有梯度比例
+bash scripts/lab/task_lean_check.sh adam <塊> <跑次[@步]>                   # 融合／稀疏 Adam：與 torch 逐位元比對＋optimizer.step 計時＋三種 Adam 的 kernel 拆解
+CITYGS_TIME_ARMS="best1run best1runfa" bash scripts/lab/task_best1_time.sh loop <塊>   # 真實迴圈逐段（增生／收割各 1,200 步）；解析 tools/parse_best1_time.py
 ```
 - ⚠ `swap_block_eval.py` 的 `--cand` 是 ckpt 路徑時**一定要給 `--names`**（否則名稱都被推成 `blocks`，兩列分不出來）；低 SH 候選自動補 0。
 - ⚠ `task_savepics.sh` 的跑次名要帶 `lab/`（`task_savepics.sh lab/<跑次> <塊>`）。
@@ -581,6 +587,9 @@ cd /workspace/data/hdd/11213 && git clone --depth 1 git@github.com:llll2005/gs.g
 
 **lab 上跑的是同一支 `scripts/runner.sh`，只是 `RUNNER_SLOTS=3`（平行三槽）。**
 所有操作都是「改 `scripts/queue.txt` 這個檔」，沒有別的介面。
+⚠ **lab 的卡是共用的**（10-20 容器外行程佔 22 GB，燒掉 10 個任務）：[solo] 現在啟動前要求 `nvidia-smi` 已用 < 1500 MiB，否則在 `logs/runner.log` 印
+「卡上已用 …MiB（外部行程佔卡？）—— 等它釋放」並等待。要確認是不是外部行程：容器內掃 `/proc/*/fd` 看誰開著 `/dev/nvidia*`（只有 `nvtop` ＝外部）。
+改了 runner.sh 要重啟才生效：`kill -TERM -- -<runner 的 PGID>`（整個行程群組，**不要用 pkill -f**）＋把被認領的那行插回佇列＋重新 `RUNNER_SLOTS=3 setsid nohup bash scripts/runner.sh ... &`。
 每一條指令都用這個前綴（token 只從環境變數走，**不要寫進任何檔案或 commit**）：
 
 ```bash

diff --git a/紀錄/方法論.md b/紀錄/方法論.md
@@ -1,4 +1,5 @@
 # 方法論：量測與基建的教訓
+最後更新: 2026-10-19（由 tools/stamp_records.py 從 git 產生，勿手改）
 
 > 2026-10-19 自 `研究總覽.md` §7 搬出成獨立文件（內容穩定、與年代分界無關；總覽只留指向）。
 > 新教訓加在最前面的「§0 新增」，舊條目原樣保留。
@@ -14,6 +15,11 @@
 
 **評測工具的候選名稱一律明給。** `swap_block_eval.py` 預設從路徑推名字，候選路徑是 `.../blocks/block_B/checkpoints/x.ckpt` 時兩個候選都被叫成 `blocks`，
 結果兩列一模一樣、分不出是誰 => 一律加 `--names`（10-18 重跑一次）。同類：`task_savepics.sh`、`lab.py get` 的跑次名要帶 `lab/`。
+
+**[solo] 不等於卡是空的：lab 的卡是共用的。** 10-20 04:34 UTC 起卡上出現容器外的行程（22 GB、100%；容器內只看得到 `nvtop`），
+runner 的 [solo] 只等自己的任務 => 10 個全因子 dist 臂一啟動就 OOM（錯誤訊息裡我方只配置 1~3 GB），40 秒～7 分鐘一個連續燒掉。
+=> runner 的 [solo] 啟動前也要求 `nvidia-smi` 已用 < 1500 MiB，否則等待（每 30 分鐘提醒一次）；燒掉的任務從 `logs/runner.log` 的 START 行原樣還原、插回佇列最前面。
+同一家族：pgrep 判 GPU、讀不到 nvidia-smi 當空閒 —— **沒看到別人 ≠ 卡是空的**。DIED 的 OOM 若「已配置」遠小於卡容量，先查外部佔用。
 
 **長期佇列要看硬碟。** 10-17 lab 1.8 TB 被中間 ckpt（759 GB）寫滿，之後 20 個任務當場 FAIL、runner 燒光佇列也不會停。
 => `task_cmp.sh` 預設只存最終 ckpt；一串 FAIL 先查 DIED 是否 `No space left on device`（記憶 `lab_disk_full_1017`）。

diff --git a/紀錄/new_archived/已關閉的線.md b/紀錄/new_archived/已關閉的線.md
@@ -86,3 +86,4 @@ SH 階數 csh2/csh1/csh0、distortion loss（cdist100/1000，從沒開過）、o
 | trim 半相機（每次 trim 只用一半相機） | 換塊 +0.02／+0.01、時間約同（68 分） | 累加式 trim 已經完全不掃相機，沒有省時空間 | 無 |
 | 配對貢獻 bit（`bwd_pair_bit`） | 渲染逐位元相同；lab 真實迴圈只快 1.1~1.9%（本機 −6.9% 沒重現） | 收益太小，不值 60k 品質臂 | 光柵器 backward 成為主要瓶頸時 |
 | SH1 當預設（60k） | 換塊 +0.53／+0.23、峰值 2.09 GB，但 F1 0.537／0.681、馬路地底 44.5／67.7%（比 SH3 差） | 一階 SH 讓幾何變差；SH3＋dist100 的幾何較好（`16`、`18`） | 以模型大小為主要目標時（SH1 ckpt 0.59 vs 1.6 GB） |
+| 稀疏 Adam 當預設（`best1runsa`，10-19） | 換塊 +0.17／+0.13（相對 best1run），但 F1 0.508／0.660（−0.053／−0.063）；60k 實測 47／50 分，反而比融合 Adam 的 45 分慢 | PSNR 升、幾何降（與 SH1、短步數同形狀）；正則只在可見時作用（推測，未驗證）；融合 Adam 已拿到大部分時間 | 只對 SH 做稀疏、幾何參數照常稠密（SH 佔參數 78%、只有光度梯度）；或以 PSNR 為主要目標時（`15` §2.1） |

diff --git a/紀錄/README.md b/紀錄/README.md
@@ -12,7 +12,8 @@
 方向       輕量＋快（使用者 10-16；暫不管本機 6GB）
 基底       best1（4x4、每塊 60k）＝ dup init ＋ opacity_reg 0 ＋ 二元熵 ＋ trim 判準 V/C ＋ conic 外接盒 ＋ 全部訓練加速
            每塊 68 分、峰值 3.92 GB、區塊 F1 0.559／0.727（官方 0.554／0.678）
-候選元件   塊外遮罩（F1 +0.07／+0.05、cap 1.2M 版時間 −42%、VRAM 減半）、深度失真正則 dist100（馬路地底面元壓到官方級）、累加式 trim（−21%）
+候選元件   塊外遮罩（F1 +0.07／+0.05、cap 1.2M 版時間 −42%、VRAM 減半）、深度失真正則 dist100（馬路地底面元壓到官方級）、
+           累加式 trim＋融合 Adam（60k 68 → 45 分、品質平手；消融跑完後當預設）
 進行中     全因子消融：遮罩 × dist100 × cap{1M,2.5M,5M} × 步數{30k,40k,50k}（SH3；b6 先、b12 後）
 對官方     全場景（舊配方 full44）27.74／.879／.129 vs release 27.26／.867／.154；同塊 15k＋SH1 +0.53／+0.54 dB、時間 4%、VRAM 25%，幾何 F1 輸
 主要缺陷   馬路一半靠地底面元撐（新視角透明）；官方最少

diff --git a/紀錄/現行方案與公式.md b/紀錄/現行方案與公式.md
@@ -5,7 +5,7 @@ id: R-formula
 摘要: 命題的完整公式推導、實作對照表，以及 §6 出處與貢獻歸屬（寫論文的 contribution statement 直接用這一節）。
 依賴: [S1-thesis]
 時間: 2026-07-28 ~ 2026-08
-最後更新: 2026-10-03（由 tools/stamp_records.py 從 git 產生，勿手改）
+最後更新: 2026-10-15（由 tools/stamp_records.py 從 git 產生，勿手改）
 ---
 
 > ✅ **2026-09-13 重驗：搬回主線。** §5「現行未驗與已知歧異」要對照 研究總覽 §1 重讀 —— 其中部分已在 2026-09-13 被量測回答（rho(v,c)、SSIM 的足跡反比計價）。內含分數需重測。

diff --git a/紀錄/論文總覽.md b/紀錄/論文總覽.md
@@ -5,7 +5,7 @@ id: R-papers-all
 摘要: 參考論文/ 全部 46 篇的算法／理念摘要，逐篇對照我方是否採用、是否驗過、結果。驗過的同步進 研究總覽.md §9。
 依賴: [R-papers（論文核對表.md，逐篇實作 vs 原文的細節）, S9-papers（研究總覽 §9 索引）]
 時間: 2026-10-02
-最後更新: 2026-10-03（由 tools/stamp_records.py 從 git 產生，勿手改）
+最後更新: 2026-10-19（由 tools/stamp_records.py 從 git 產生，勿手改）
 ---
 
 # 參考論文總覽（46 篇，2026-10-02）
